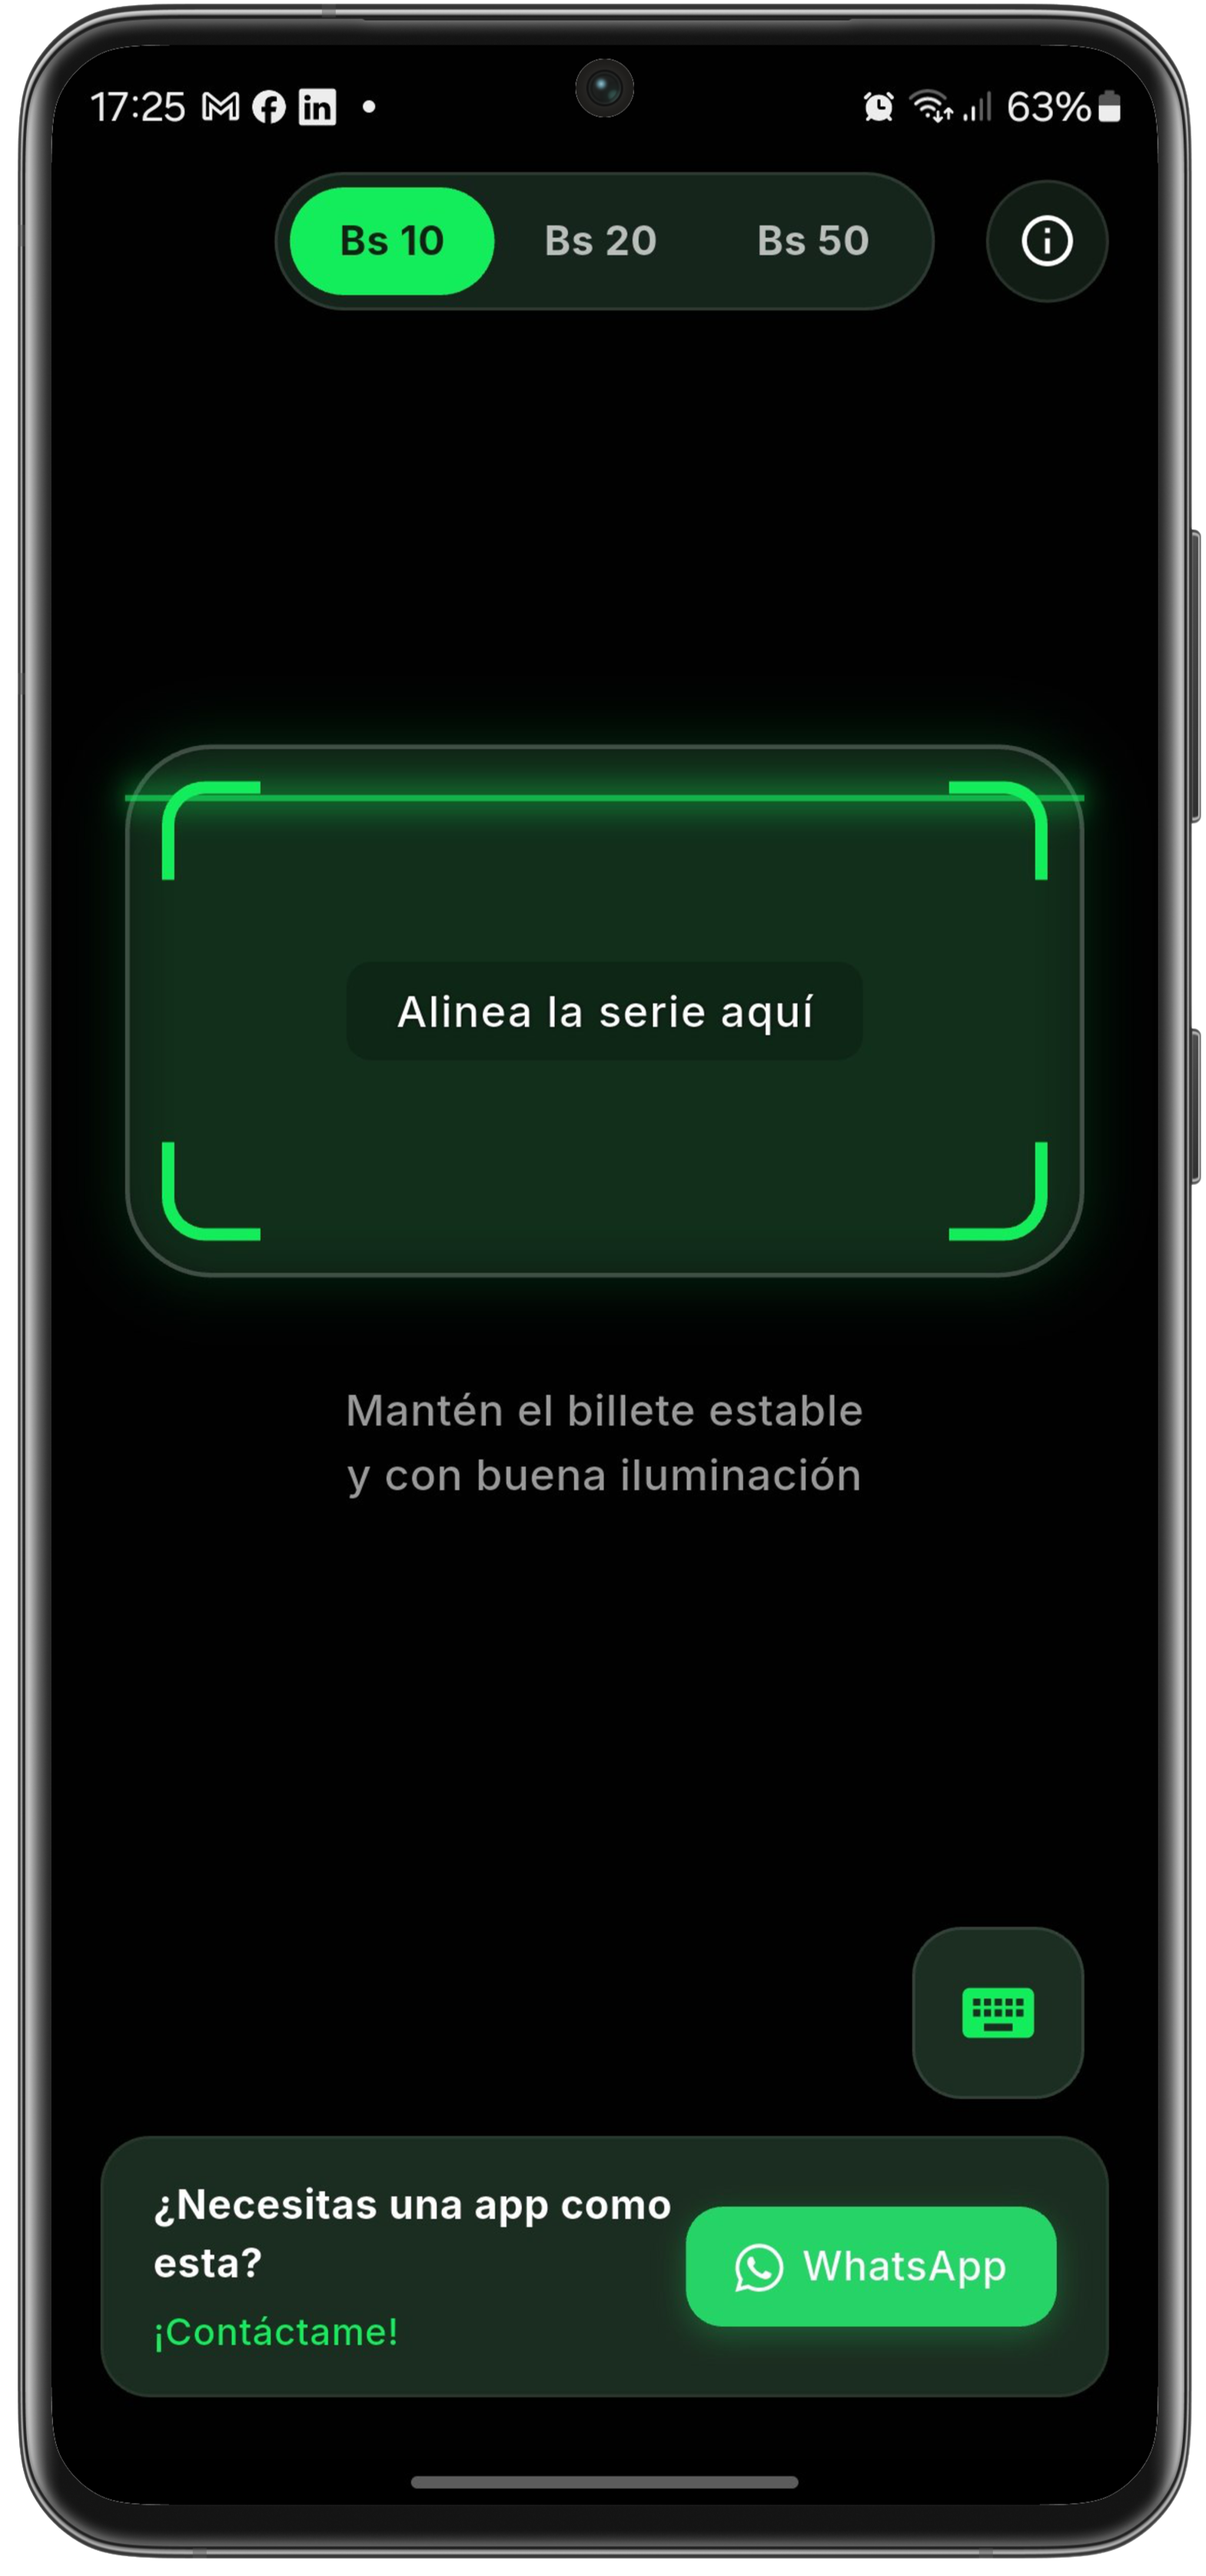
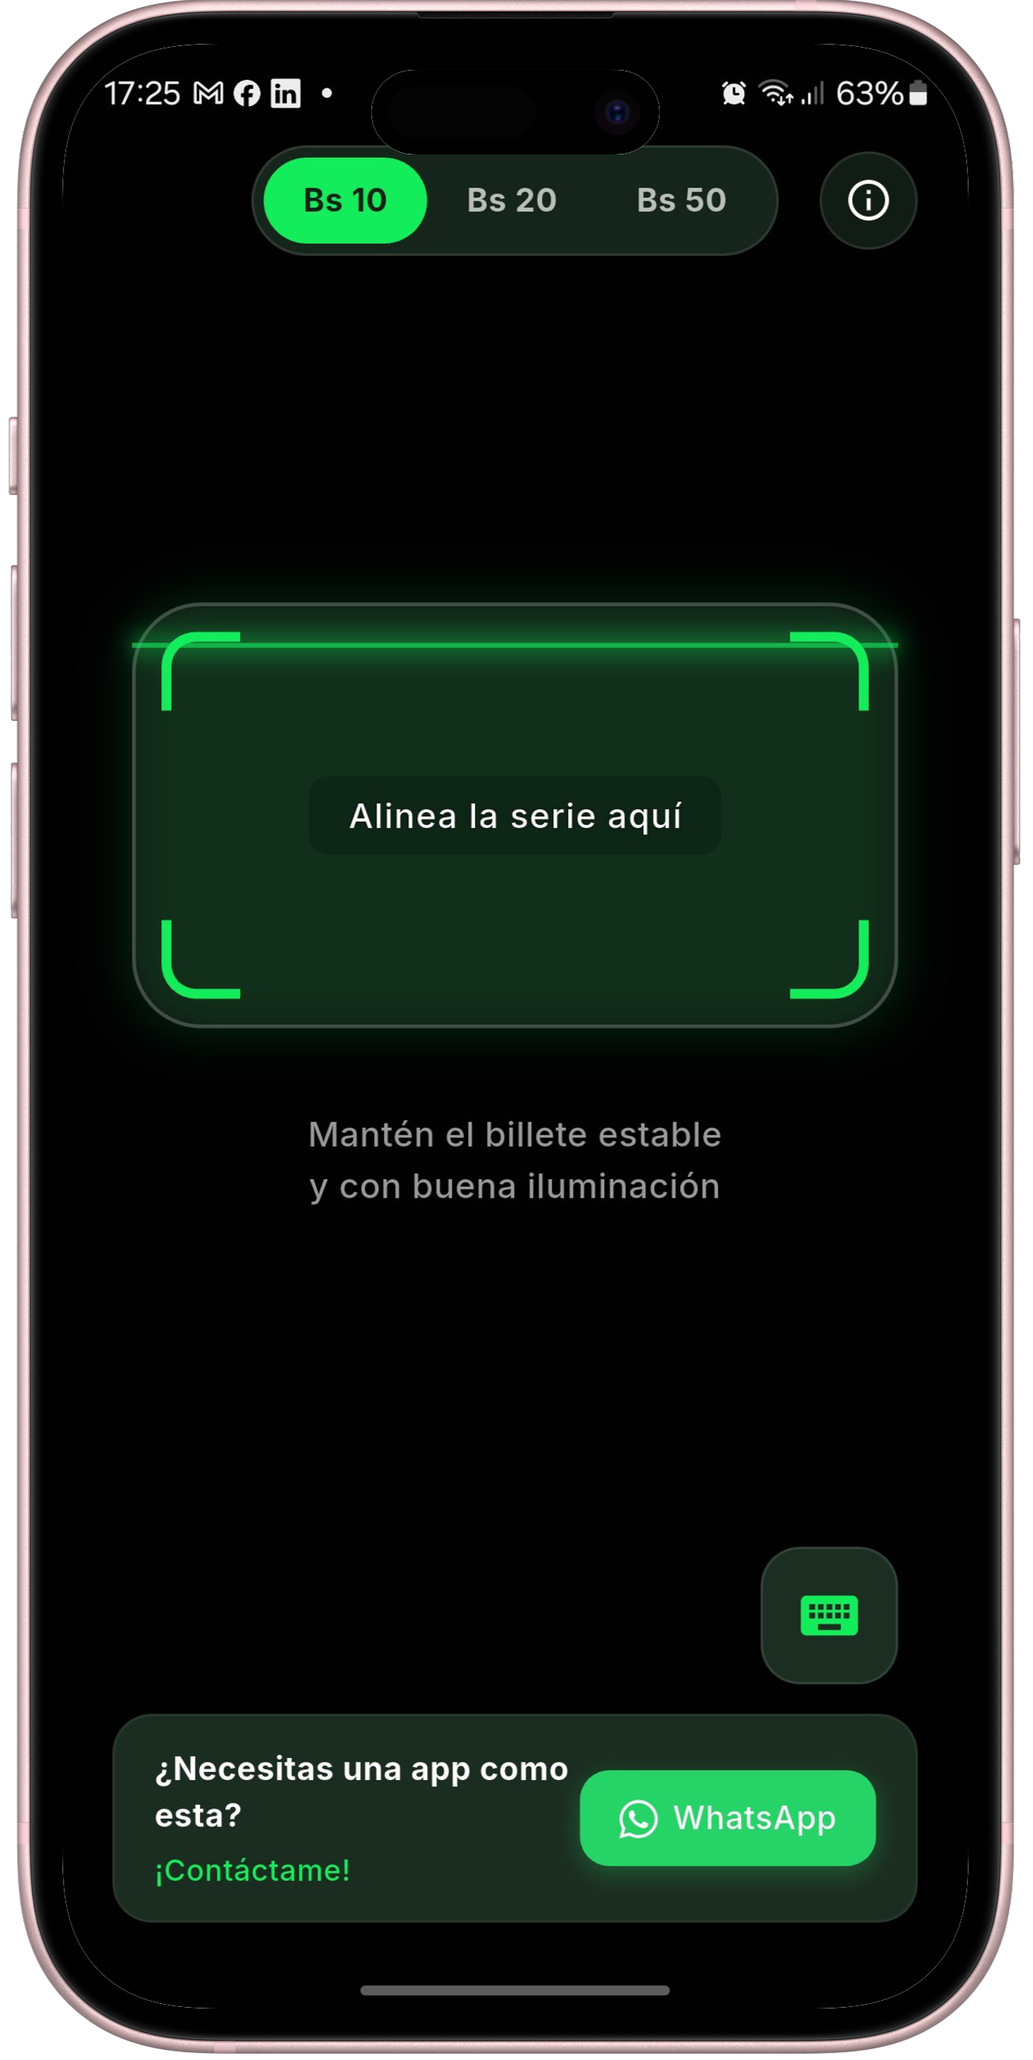
feat: imagenes nuevas + responsividad coregida

diff --git a/src/app/app.css b/src/app/app.css
@@ -105,75 +105,16 @@
 }
 
 .hero-device {
-  position: relative;
-  min-height: 360px;
   display: flex;
-  align-items: center;
   justify-content: center;
+  align-items: center;
+  width: min(360px, 60vw);
 }
 
-.hero-device__glow {
-  position: absolute;
+.hero-screen {
   width: 100%;
-  height: 100%;
+  height: auto;
   border-radius: 40px;
-  background: radial-gradient(circle, rgba(59, 130, 246, 0.35), transparent 60%);
-  filter: blur(20px);
-}
-
-.device {
-  position: relative;
-  width: 280px;
-  height: 560px;
-  border-radius: 40px;
-  border: 8px solid #0f172a;
-  background: #0f172a;
-  box-shadow: 0 20px 40px rgba(15, 23, 42, 0.6);
-  overflow: hidden;
-}
-
-.device-top {
-  height: 48px;
-  background: linear-gradient(180deg, rgba(255, 255, 255, 0.1), transparent);
-  display: flex;
-  align-items: center;
-  justify-content: center;
-  color: white;
-  font-size: 0.8rem;
-}
-
-.device-screen {
-  position: relative;
-  flex: 1;
-  background: linear-gradient(180deg, #111827, #1f2937);
-}
-
-.device-pattern {
-  position: absolute;
-  inset: 0;
-  background-image: radial-gradient(circle at 20% 20%, rgba(255, 255, 255, 0.15), transparent 40%);
-  opacity: 0.4;
-}
-
-.device-overlay {
-  position: absolute;
-  inset: 0;
-  display: flex;
-  flex-direction: column;
-  align-items: center;
-  justify-content: center;
-  gap: 0.5rem;
-  color: #f8fafc;
-}
-
-.device-footer {
-  height: 48px;
-  display: flex;
-  align-items: center;
-  justify-content: center;
-  color: #94a3b8;
-  font-size: 0.9rem;
-  letter-spacing: 0.1rem;
 }
 
 .section-heading {
@@ -232,11 +173,11 @@
 }
 
 .screenshot-card {
-  border-radius: 1.5rem;
-  padding: 0.4rem;
-  background: rgba(255, 255, 255, 0.9);
-  border: 1px solid rgba(148, 163, 184, 0.4);
-  box-shadow: 0 15px 40px rgba(15, 23, 42, 0.12);
+  border-radius: 0;
+  padding: 0;
+  background: transparent;
+  border: none;
+  box-shadow: none;
   animation: floatIn 0.6s ease forwards;
 }
 
@@ -246,6 +187,7 @@
   border-radius: 1.2rem;
   object-fit: cover;
   display: block;
+  background: transparent;
 }
 
 .capture-controls {

diff --git a/src/app/app.html b/src/app/app.html
@@ -11,9 +11,7 @@
           Seguridad en
           <span class="gradient-text">tus manos</span>
         </h1>
-        <p>
-          Identifica facilmente escaneando con la camara los billes sin valor legal segun bcb
-        </p>
+        <p>Identifica facilmente escaneando con la camara los billes sin valor legal segun bcb</p>
         <div class="hero-actions">
           <button type="button" class="primary-btn" (click)="descargarApk()">
             <span class="material-symbols-outlined">android</span>
@@ -22,18 +20,14 @@
         </div>
       </div>
       <div class="hero-device" aria-hidden="true">
-        <div class="hero-device__glow"></div>
-        <div class="device">
-          <div class="device-top">12:00</div>
-          <div class="device-screen">
-            <div class="device-pattern"></div>
-            <div class="device-overlay">
-              <div class="badge success">Verificacion Exitosa</div>
-              <p>Serie A detectada</p>
-            </div>
-          </div>
-          <div class="device-footer">Verificador BO</div>
-        </div>
+        <img
+          [ngSrc]="heroImage"
+          width="320"
+          height="640"
+          alt="Mockup de la app en el hero"
+          loading="lazy"
+          class="hero-screen"
+        />
       </div>
     </section>
 
@@ -82,7 +76,6 @@
       </div>
     </section>
 
-
     <section class="developer-section" id="developer">
       <div class="developer-grid">
         <article class="developer-card">
@@ -121,5 +114,4 @@
     [socialLinks]="socialLinks"
   ></app-shell-footer>
   <router-outlet></router-outlet>
-
 </div>

diff --git a/src/app/app.ts b/src/app/app.ts
@@ -42,6 +42,8 @@ export class App {
     { label: 'Contacto', href: '#developer' },
   ];
 
+  readonly heroImage = 'assets/images/screenshots/presentation.png';
+
   readonly features: Feature[] = [
     {
       icon: 'qr_code_scanner',
